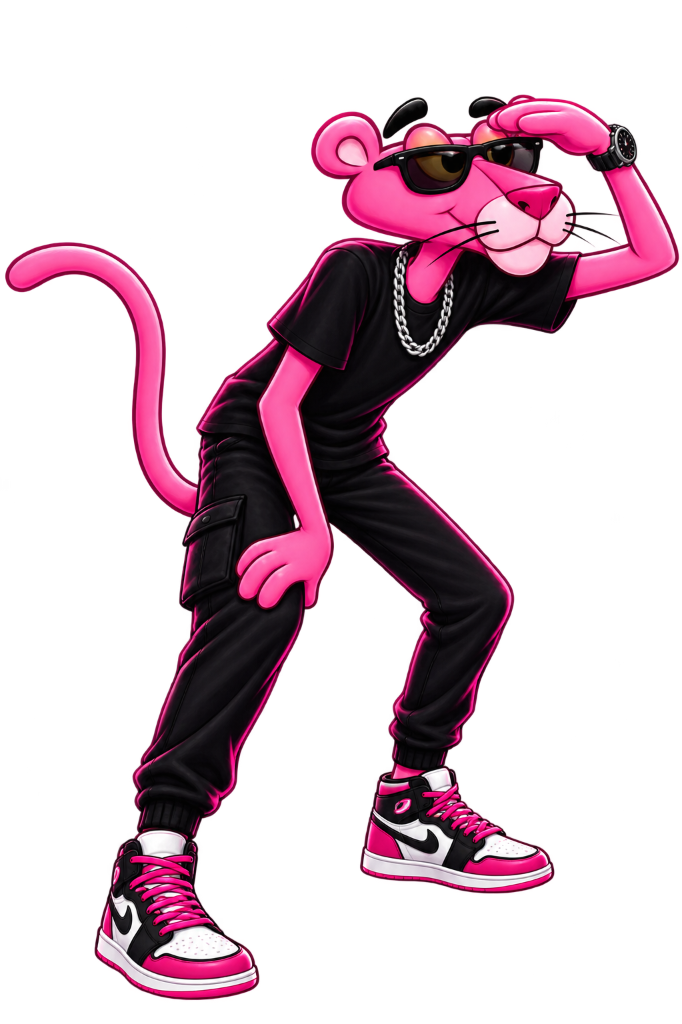
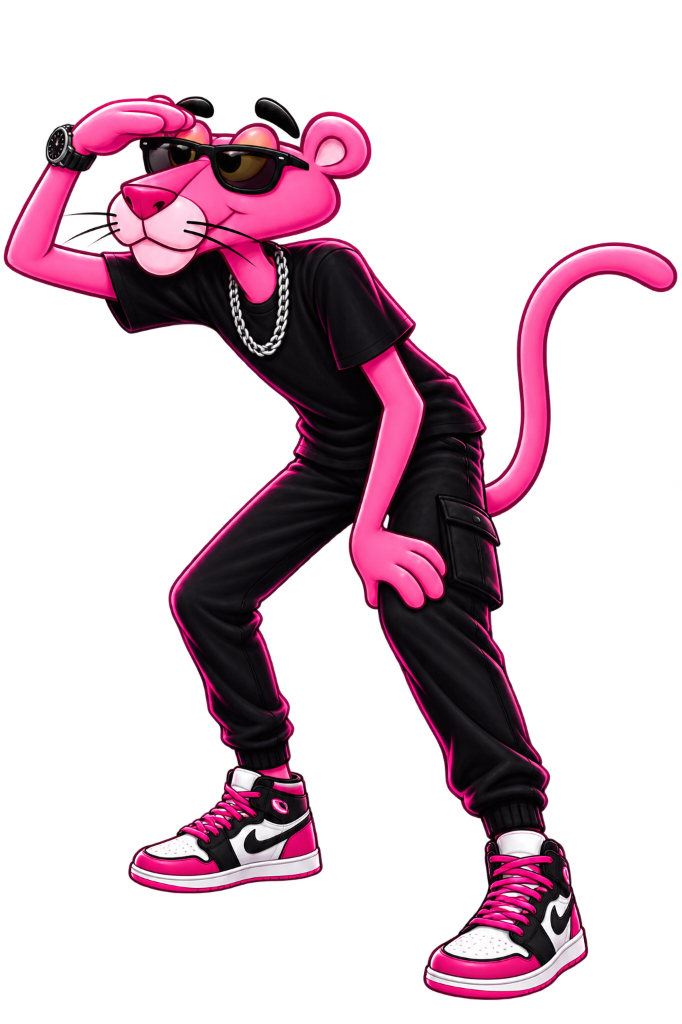
feat: add full diagonal background scrolling mascot in TEAM KEN'Z matching event arena video

diff --git a/src/components/CoordinatorsSection.js b/src/components/CoordinatorsSection.js
@@ -15,6 +15,13 @@ export function renderCoordinatorsSection() {
       <div class="cyber-floating-diamond" style="top: 45%; left: 4%;"></div>
       <div class="cyber-watermark" style="top: 10%; left: 50%; transform: translateX(-50%); opacity: 0.035;">TEAM KEN'Z</div>
 
+      <!-- Story Character - Full Diagonal Background Travel Layer -->
+      <div id="team-char-track" style="position: absolute; top: 0; left: 0; width: 100%; height: 100%; pointer-events: none; overflow: hidden; z-index: 1;">
+        <div id="team-story-char" style="position: absolute; width: clamp(150px, 19vw, 240px); top: 0; left: 0; transform: translate3d(100vw, -100px, 0); opacity: 0; transition: opacity 0.3s ease; will-change: transform; filter: drop-shadow(0 0 30px rgba(255, 42, 133, 0.5));">
+          <img src="/assets/story_char_team.png" alt="Cyber Panther Scouting Mascot" style="width: 100%; height: auto; display: block;">
+        </div>
+      </div>
+
       <div class="container" style="position: relative; z-index: 2; max-width: 1300px;">
         
         <!-- Section Header -->
@@ -323,6 +330,93 @@ export function renderCoordinatorsSection() {
       </div>
     </section>
   `;
+}
+
+let teamCharRafId = null;
+
+export function initTeamArenaCharacter() {
+  if (teamCharRafId) {
+    cancelAnimationFrame(teamCharRafId);
+    teamCharRafId = null;
+  }
+
+  const char = document.getElementById('team-story-char');
+  const section = document.getElementById('coordinators');
+
+  if (!char || !section) return;
+
+  let targetX = 0;
+  let targetY = 0;
+  let targetRot = 0;
+  let currentX = null;
+  let currentY = null;
+  let currentRot = 0;
+  let isVisible = false;
+
+  function calculateTarget() {
+    const rect = section.getBoundingClientRect();
+    const windowHeight = window.innerHeight;
+    const sectionWidth = section.clientWidth;
+    const sectionHeight = section.offsetHeight;
+
+    // Check visibility with generous threshold
+    if (rect.bottom < 0 || rect.top > windowHeight) {
+      isVisible = false;
+      char.style.opacity = '0';
+      return;
+    }
+
+    isVisible = true;
+    char.style.opacity = '0.95';
+
+    // Calculate progress as user scrolls through the full height of the section
+    const totalTravel = sectionHeight + windowHeight;
+    const currentScrolled = windowHeight - rect.top;
+    let progress = currentScrolled / totalTravel;
+    progress = Math.max(0, Math.min(1, progress));
+
+    const charWidth = char.offsetWidth || 180;
+    const charHeight = char.offsetHeight || 260;
+
+    // Path: Out of Right-Top frame -> Across background behind cards -> Out of Left-Down frame
+    const startX = sectionWidth + 40;
+    const startY = -charHeight * 0.6;
+
+    const endX = -charWidth - 40;
+    const endY = sectionHeight + 40;
+
+    targetX = startX + progress * (endX - startX);
+    targetY = startY + progress * (endY - startY);
+
+    // Subtle dynamic rotation as it travels down
+    targetRot = -14 + progress * 28;
+
+    // Initialize current on first run
+    if (currentX === null || currentY === null) {
+      currentX = targetX;
+      currentY = targetY;
+      currentRot = targetRot;
+    }
+  }
+
+  function tick() {
+    if (isVisible && currentX !== null && currentY !== null) {
+      // Smooth LERP interpolation
+      currentX += (targetX - currentX) * 0.08;
+      currentY += (targetY - currentY) * 0.08;
+      currentRot += (targetRot - currentRot) * 0.08;
+
+      char.style.transform = `translate3d(${currentX.toFixed(2)}px, ${currentY.toFixed(2)}px, 0) rotate(${currentRot.toFixed(2)}deg)`;
+    }
+
+    teamCharRafId = requestAnimationFrame(tick);
+  }
+
+  window.addEventListener('scroll', calculateTarget, { passive: true });
+  window.addEventListener('resize', calculateTarget, { passive: true });
+
+  calculateTarget();
+  tick();
 }
 
 export function initTeamFilter() {

diff --git a/src/main.js b/src/main.js
@@ -11,7 +11,7 @@ import { initCountdown } from './components/CountdownTimer.js';
 import { renderEventsShowcase, initEventArenaCharacter } from './components/EventsShowcase.js';
 import { renderEventModal } from './components/EventModal.js';
 import { renderMascotInspector360 } from './components/MascotInspector360.js';
-import { renderCoordinatorsSection, initTeamFilter } from './components/CoordinatorsSection.js';
+import { renderCoordinatorsSection, initTeamFilter, initTeamArenaCharacter } from './components/CoordinatorsSection.js';
 import { renderRegistrationPortal, initRegistrationPortal } from './components/RegistrationPortal.js';
 import { renderAboutInstitution } from './components/AboutInstitution.js';
 import { renderCampusTravelGuide } from './components/CampusTravelGuide.js';
@@ -84,6 +84,7 @@ function initApp() {
     try { setupEventModals(); } catch (e) {}
     try { initEventArenaCharacter(); } catch (e) {}
     try { initTeamFilter(); } catch (e) {}
+    try { initTeamArenaCharacter(); } catch (e) {}
     
     if (scrollObserver) {
       scrollObserver.refresh();
